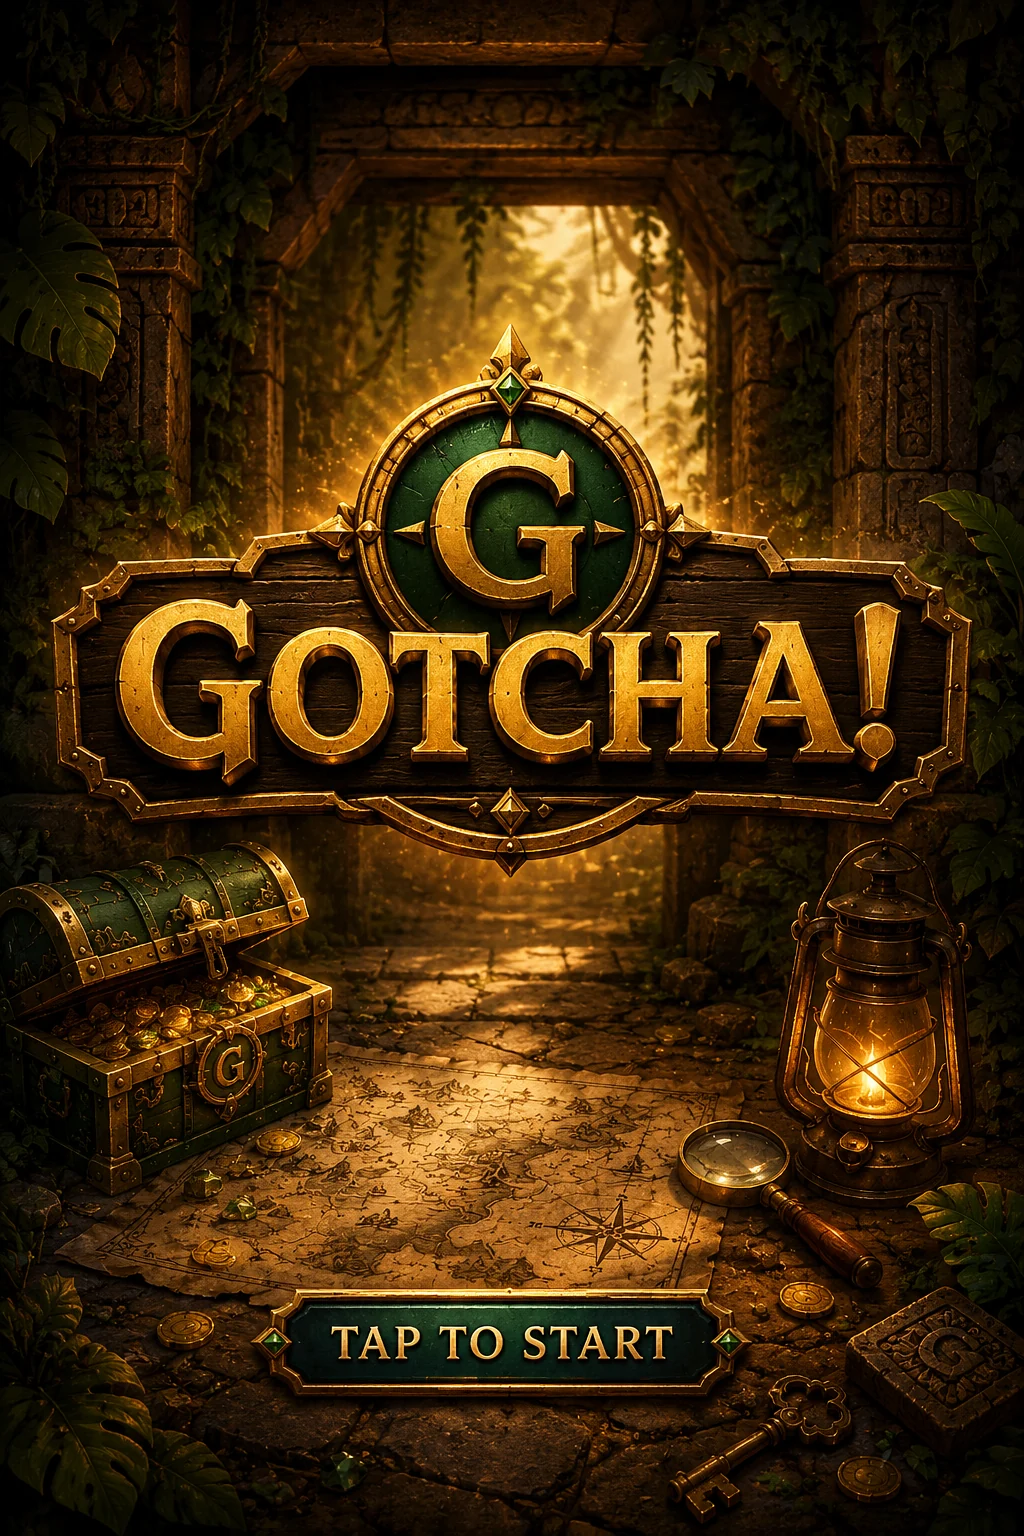
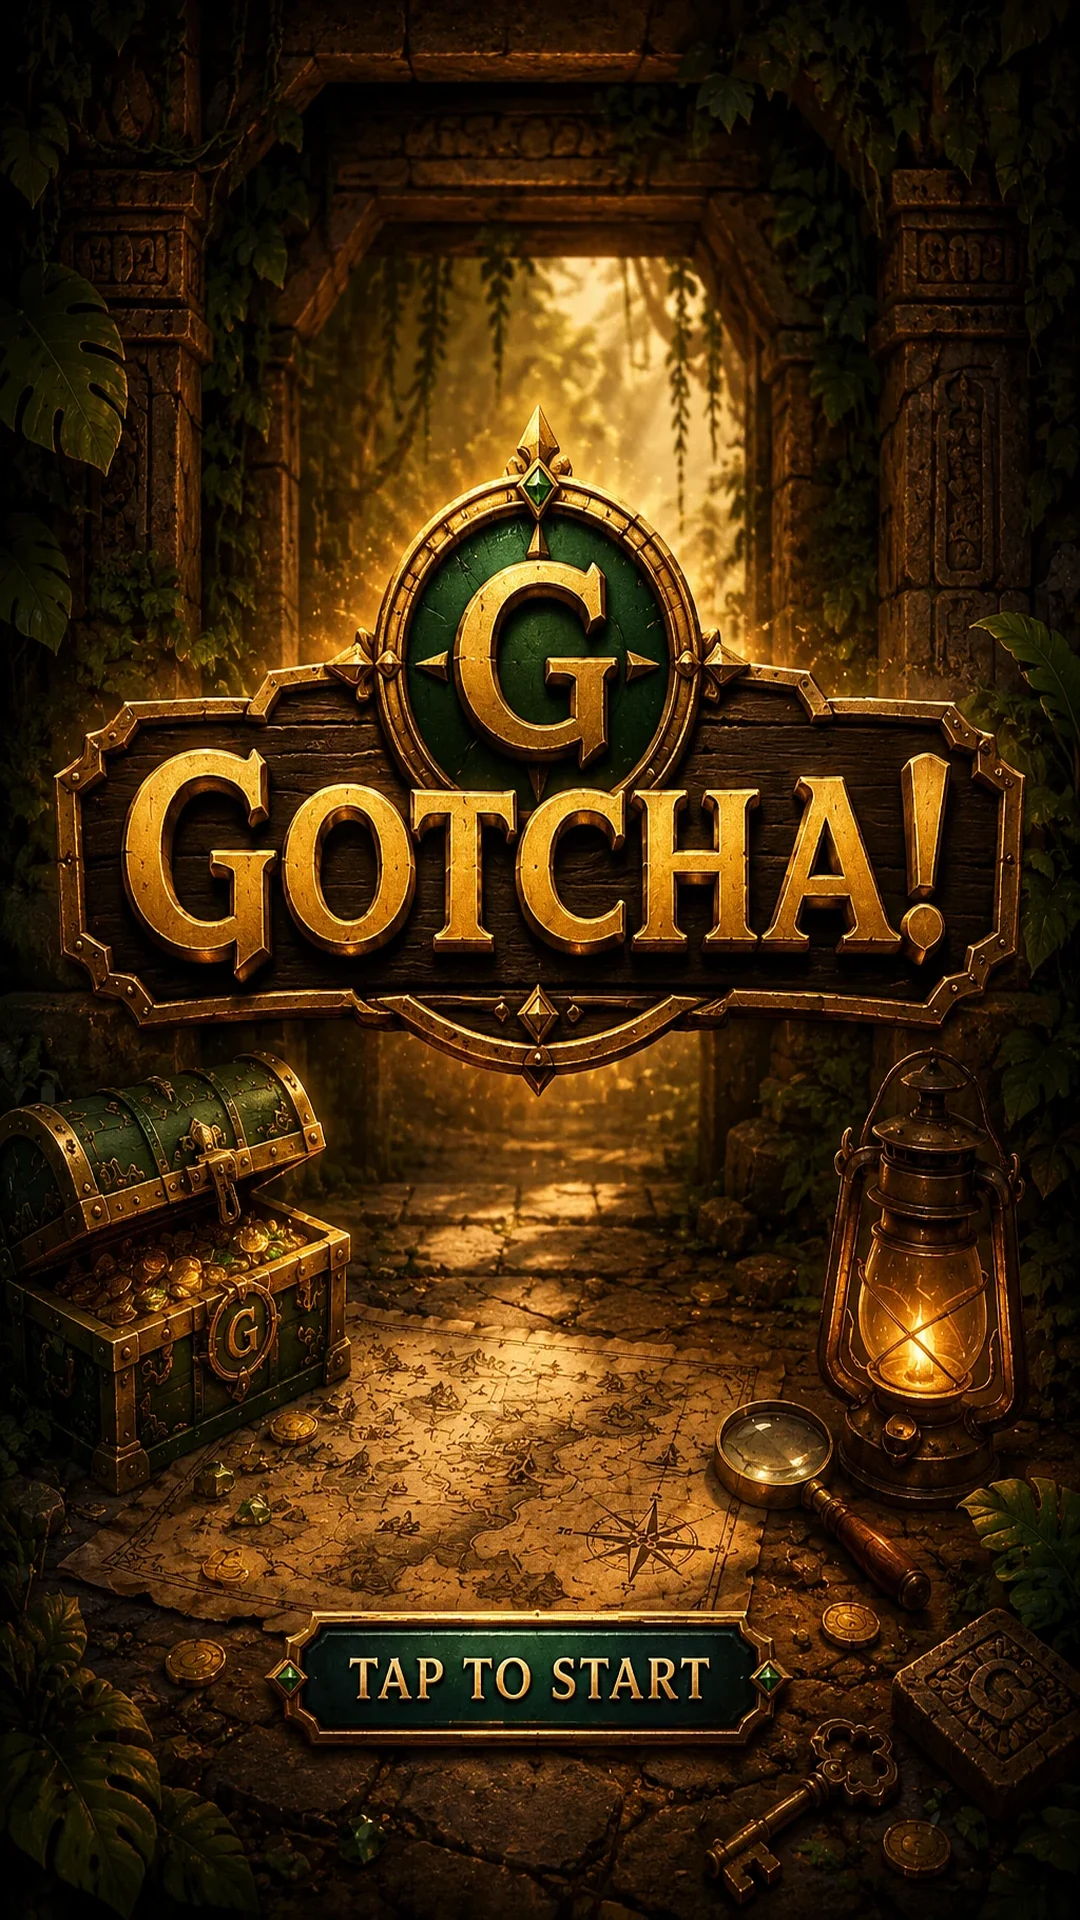
Convert game stage to 1080x1920

diff --git a/styles.css b/styles.css
@@ -62,8 +62,8 @@ body::before {
   z-index: 0;
   top: 50%;
   left: 50%;
-  width: 1200px;
-  height: 2200px;
+  width: 1080px;
+  height: 1920px;
   background: url("assets/gotcha-opening-screen.webp") center / cover no-repeat;
   transform: translate(-50%, -50%) scale(var(--game-stage-scale, 1));
 }
@@ -133,8 +133,8 @@ svg {
   position: fixed;
   top: 50%;
   left: 50%;
-  width: 1200px;
-  height: 2200px;
+  width: 1080px;
+  height: 1920px;
   margin: 0;
   overflow: hidden;
   padding: 54px 54px 160px;
@@ -537,8 +537,8 @@ body[data-active-view="home"] {
 }
 
 body[data-active-view="home"] .app {
-  width: 1200px;
-  height: 2200px;
+  width: 1080px;
+  height: 1920px;
   padding: 0;
 }
 
@@ -550,7 +550,7 @@ body[data-active-view="home"] .footer {
 }
 
 body[data-active-view="home"] #homeView {
-  height: 2200px;
+  height: 1920px;
 }
 
 body[data-active-view="home"] #homeView > .card {
@@ -570,8 +570,8 @@ body[data-active-view="collection"] .app,
 body[data-active-view="inventory"] .app,
 body[data-active-view="map"] .app,
 body[data-active-view="profile"] .app {
-  width: 1200px;
-  height: 2200px;
+  width: 1080px;
+  height: 1920px;
   padding: 0;
 }
 
@@ -598,11 +598,11 @@ body[data-active-view="collection"] #collectionView,
 body[data-active-view="inventory"] #inventoryView,
 body[data-active-view="map"] #mapView,
 body[data-active-view="profile"] #profileView {
-  height: 2200px;
+  height: 1920px;
 }
 
 .treasure-desk.image-menu {
-  height: 2200px;
+  height: 1920px;
   min-height: 0;
   margin: 0;
   border: 0;
@@ -2774,7 +2774,7 @@ button:disabled {
 .game-art-screen {
   position: relative;
   overflow: hidden;
-  height: 2200px !important;
+  height: 1920px !important;
   padding: 0;
   color: #f8dda0;
   background-position: center top;
@@ -2824,11 +2824,11 @@ button:disabled {
 .collections-screen .tablet-card {
   position: absolute;
   z-index: 8;
-  top: 505px;
-  left: 150px;
+  top: 441px;
+  left: 135px;
   overflow: visible;
-  width: 900px;
-  height: 990px;
+  width: 810px;
+  height: 864px;
   margin: 0;
   padding: 0;
   border: 0;
@@ -2884,19 +2884,19 @@ button:disabled {
 
 .collections-screen .assemble-tablet-button {
   position: absolute;
-  right: 155px;
-  bottom: -75px;
-  left: 155px;
+  right: 140px;
+  bottom: -65px;
+  left: 140px;
   z-index: 10;
 }
 
 .inventory-empty-panel {
   position: absolute;
   z-index: 8;
-  top: 690px;
-  left: 206px;
+  top: 602px;
+  left: 185px;
   display: grid;
-  width: 790px;
+  width: 711px;
   gap: 10px;
   padding: 24px 30px;
   border: 1px solid rgba(242, 201, 76, 0.25);
@@ -2931,7 +2931,7 @@ button:disabled {
 .profile-screen .tutorial-replay-card {
   position: absolute;
   z-index: 8;
-  width: 860px;
+  width: 774px;
   margin: 0;
   border: 1px solid rgba(242, 201, 76, 0.22);
   color: #f8dda0;
@@ -2947,29 +2947,29 @@ button:disabled {
 }
 
 .profile-screen .profile-hero {
-  top: 372px;
-  left: 170px;
+  top: 325px;
+  left: 153px;
 }
 
 .profile-screen .profile-card {
-  top: 545px;
-  left: 170px;
+  top: 476px;
+  left: 153px;
 }
 
 .profile-screen .account-card {
-  top: 710px;
-  left: 170px;
+  top: 620px;
+  left: 153px;
 }
 
 .profile-screen .profile-metrics {
-  top: 1180px;
-  left: 170px;
+  top: 1030px;
+  left: 153px;
   display: grid;
 }
 
 .profile-screen .tutorial-replay-card {
-  top: 1328px;
-  left: 170px;
+  top: 1159px;
+  left: 153px;
 }
 
 .profile-screen .profile-card label,
@@ -3002,11 +3002,11 @@ button:disabled {
 .treasure-map-screen .hunt-map-card {
   position: absolute;
   z-index: 5;
-  top: 548px;
-  left: 118px;
+  top: 478px;
+  left: 106px;
   overflow: visible;
-  width: 964px;
-  height: 1072px;
+  width: 868px;
+  height: 936px;
   margin: 0;
   padding: 0;
   border: 0;
@@ -3043,17 +3043,17 @@ button:disabled {
 }
 
 .treasure-map-screen .hunt-map .leaflet-control-zoom {
-  margin-top: 38px;
-  margin-left: 28px;
+  margin-top: 33px;
+  margin-left: 25px;
 }
 
 .treasure-map-screen .hunt-map .leaflet-control-zoom a {
-  width: 82px;
-  height: 82px;
+  width: 74px;
+  height: 74px;
   color: #107a3e;
   background: rgba(255, 246, 218, 0.9);
-  font-size: 42px;
-  line-height: 82px;
+  font-size: 38px;
+  line-height: 74px;
 }
 
 .treasure-map-screen .hunt-map .leaflet-control-attribution {
@@ -3063,11 +3063,11 @@ button:disabled {
 .treasure-map-screen .map-toolbar {
   position: absolute;
   z-index: 20;
-  top: -205px;
-  left: 170px;
+  top: -179px;
+  left: 153px;
   display: block;
-  width: 822px;
-  height: 170px;
+  width: 740px;
+  height: 148px;
   padding: 0;
   border: 0;
   background: transparent;
@@ -3094,30 +3094,30 @@ button:disabled {
 .treasure-map-screen #focusTestLocationButton {
   top: 0;
   left: 0;
-  width: 392px;
-  height: 115px;
+  width: 353px;
+  height: 100px;
   border-radius: 20px;
 }
 
 .treasure-map-screen #locatePlayerButton {
-  top: -250px;
-  right: -240px;
-  width: 112px;
-  height: 112px;
+  top: -218px;
+  right: -216px;
+  width: 101px;
+  height: 101px;
   border-radius: 50%;
 }
 
 .treasure-map-screen .map-status {
   position: absolute;
   z-index: 18;
-  bottom: -120px;
-  left: 186px;
-  right: 172px;
+  bottom: -105px;
+  left: 167px;
+  right: 155px;
   min-height: 0;
   padding: 0;
   color: #f8dda0;
   background: transparent;
-  font-size: 24px;
+  font-size: 21px;
   font-weight: 850;
   line-height: 1.25;
   text-align: center;
@@ -3133,9 +3133,9 @@ button:disabled {
 .treasure-map-screen .map-location-card {
   position: absolute;
   z-index: 19;
-  right: 80px;
-  bottom: 364px;
-  width: 258px;
+  right: 72px;
+  bottom: 318px;
+  width: 232px;
   margin: 0;
   padding: 0;
   border: 0;
@@ -3161,7 +3161,7 @@ button:disabled {
 .treasure-map-screen .map-directions-button {
   display: grid;
   min-width: 0;
-  min-height: 88px;
+  min-height: 77px;
   margin: 0;
   place-items: center;
   border: 0;
@@ -3182,7 +3182,7 @@ button:disabled {
   bottom: 0;
   left: 0;
   display: grid;
-  height: 205px;
+  height: 179px;
   grid-template-columns: repeat(5, 1fr);
 }
 

diff --git a/index.html b/index.html
@@ -11,7 +11,7 @@
   <link rel="manifest" href="manifest.webmanifest" />
   <link rel="apple-touch-icon" href="assets/icon-192.png" />
   <link rel="stylesheet" href="assets/vendor/leaflet-1.9.4.css" />
-  <link rel="stylesheet" href="styles.css?v=45" />
+  <link rel="stylesheet" href="styles.css?v=46" />
   <script src="assets/vendor/html5-qrcode-2.3.8.min.js"></script>
   <script src="assets/vendor/leaflet-1.9.4.min.js"></script>
   <script
@@ -19,7 +19,7 @@
     defer
   ></script>
   <script src="supabase-config.js?v=1" defer></script>
-  <script src="app.js?v=44" defer></script>
+  <script src="app.js?v=45" defer></script>
 </head>
 
 <body data-active-view="home">

diff --git a/service-worker.js b/service-worker.js
@@ -1,6 +1,6 @@
 "use strict";
 
-const CACHE_NAME = "gotcha-mvp-v57";
+const CACHE_NAME = "gotcha-mvp-v58";
 const APP_SHELL = [
   "./",
   "./index.html",
@@ -9,9 +9,9 @@ const APP_SHELL = [
   "./admin.css?v=4",
   "./admin.js?v=4",
   "./admin.webmanifest",
-  "./styles.css?v=45",
+  "./styles.css?v=46",
   "./supabase-config.js?v=1",
-  "./app.js?v=44",
+  "./app.js?v=45",
   "./hunts.json",
   "./manifest.webmanifest",
   "./images/background.png",

diff --git a/app.js b/app.js
@@ -37,8 +37,8 @@ const TABLET_ASSEMBLY_HOLD_DURATION = 1800;
 const TABLET_REVEAL_DURATION = 2600;
 const FINAL_VAULT_KEY_ID = "stone-map-key";
 const FINAL_VAULT_KEY_COUNT = 3;
-const GAME_STAGE_WIDTH = 1200;
-const GAME_STAGE_HEIGHT = 2200;
+const GAME_STAGE_WIDTH = 1080;
+const GAME_STAGE_HEIGHT = 1920;
 const DEFAULT_MAP_ZOOM = 14;
 const PLAYER_MAP_ZOOM = 14;
 const CHECKIN_DURATION_HOURS = 4;
